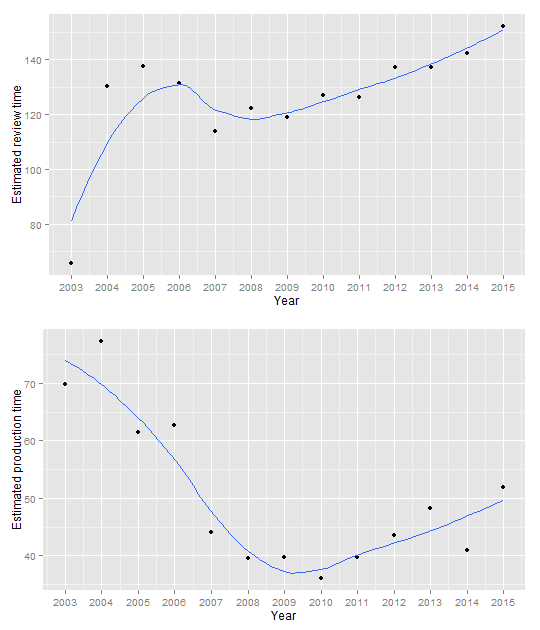
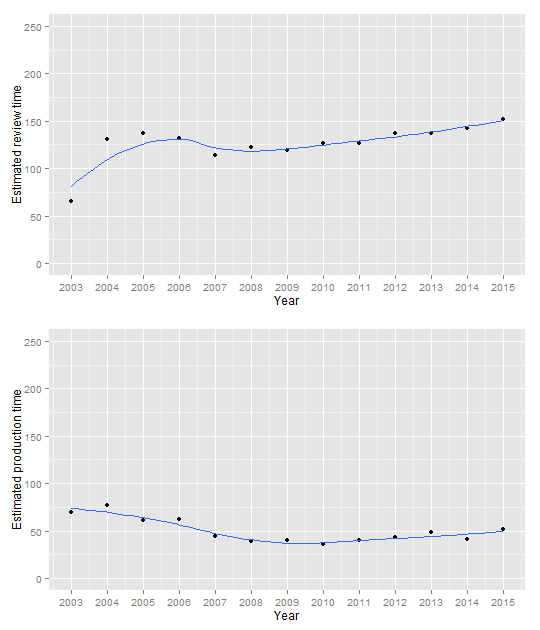
Worked on results

diff --git a/descriptive results.tex b/descriptive results.tex
@@ -1,23 +1,23 @@
 \section*{Descriptive results}
-The collected dataset includes information on 137,468 research papers. Across all journals, the median publication cycle is 152 days, with the majority of this being the review process (i.e., median 111 days) and not the production process (i.e., median 38 days). Table \ref{tab:tab1} specifies these numbers per journal and indicates PLoS ONE has the fastest review- and production process, whereas PLoS Medicine has the longest review process (median difference = 69). PLoS Clinical Trials had the longest production process, compared to PLoS ONE (median difference = 15). S1 Figure includes plots of median review- and production times per journal. 
+The collected dataset includes information on 140,674 research papers. Across all journals, the median publication cycle is 152 days, with the majority of this being the review process (i.e., median 111 days) and not the production process (i.e., median 38 days). Table \ref{tab:tab1} specifies these numbers per journal and indicates PLoS ONE has the fastest review, whereas PLoS Medicine has the longest review process (median difference = 69). PLoS Clinical Trials had the longest production process, compared to PLoS ONE (median difference = 16). S1 Figure includes plots of observed median review- and production times per journal. 
 
 \begin{table}
 \caption{Table 1. Descriptive statistics per journal, with publication-, review-, and production time in median.}
 \label{tab:tab1}
 \begin{tabular}{ c c c c c }
           & \# Articles & Publication time & Review time & Production time \\
-    ONE   & 119,435 & 147   & 106   & 37 \\
+    ONE   & 122,398 & 147   & 107   & 36 \\
     Clinical Trials & 44    & 180.5 & 125   & 52 \\
-    Genetics & 4,676  & 182   & 131   & 50 \\
-    Neglected Tropical Diseases & 2,940  & 183   & 133   & 45 \\
-    Pathogens & 3,926  & 183   & 138.5 & 43 \\
-    Biology & 2,005  & 190   & 141   & 46 \\
-    Computational Biology & 3,385  & 199   & 148   & 48 \\
-    Medicine & 1,057  & 231   & 175   & 47 \\
-    Overall & 137,468 & 152   & 111   & 38 \\
+    Genetics & 4,741  & 182   & 131   & 50 \\
+    Neglected Tropical Diseases & 2,999  & 183   & 133   & 45 \\
+    Pathogens & 3,992  & 183   & 139.5 & 43 \\
+    Biology & 2,015  & 190   & 141   & 46 \\
+    Computational Biology & 3,423  & 199   & 148   & 48 \\
+    Medicine & 1,062  & 230.5   & 176   & 47 \\
+    Overall & 140,674 & 152   & 111   & 38 \\
 \end{tabular}
 \end{table}
 
-These differences in the review- and production speed could be a consequence of increased efficiency or stricter publication criteria. PLoS ONE contains 119,435 papers and is considered a megajournal (i.e., not field specific or selective in topic). On the other hand, the other journals are more similar to traditional journals in its criteria for publication (e.g., originality of research). PLoS Medicine, for example, contains 'only' 1,057 papers, indicating a large disparity with PLoS ONE. 
+These differences in the review- and production speed could be a consequence of increased efficiency or stricter publication criteria. PLoS ONE contains 122,398 papers and is considered a megajournal (i.e., not field specific or selective in topic). On the other hand, the other journals are more similar to traditional journals in its criteria for publication (e.g., originality of research). PLoS Medicine, for example, contains 'only' 1,062 papers, indicating a large disparity with PLoS ONE. 
 
 Correlations indicate that the total publication cycle is almost perfectly correlated with review time ($\rho=.976$). This indicates that $95\%$ of the variance in publication cycle is explained by the review time and that the production process seems an additive random process that is not predicted by the time taken to get a paper accepted.

diff --git a/aggregate model results.tex b/aggregate model results.tex
@@ -1,30 +1,30 @@
 \section*{Aggregate model results}
-Poisson model estimates for all journals together indicate that both review- and production time are only predicted by year. Coefficients in Table \ref{tab:tab2} indicate negligible predictive effects of number of authors, number of pages, and presence of competing interests (i.e., $b \leq |.019|$). Dummy coefficients indicate that review time has increased, whereas production time has decreased compared to 2003. Besides the effect of year, the results indicate review time is a random process around a certain mean.
+Poisson model estimates for all journals together indicate that both review- and production time are only predicted by year. Coefficients in Table \ref{tab:tab2} indicate negligible predictive effects of number of authors, number of pages, and presence of competing interests (i.e., $b \leq |.017|$). Dummy coefficients indicate that review time has increased, whereas production time has fluctuated around 50 days. Besides the effect of year, the results indicate review time is a random process.
 
 \begin{table}
 \caption{Table 2. Poisson regression model estimates for review- and production time.}
 \label{tab:tab2}
 \begin{tabular}{ c c c }
-    & Estimate (review) & Estimate (production) \\
-    Intercept & 4.18738 & 4.24957 \\
-    Authors (centred) & 0.00189 & 0.00592 \\
+             & Estimate (review) & Estimate (production) \\
+    Intercept & 4.18370 & 4.24677 \\
+    Authors (centred) & 0.00176 & 0.00582 \\
     Authors$^2$ (centred) & -0.00001 & -0.00001 \\
-    Pages (centred) & -0.00093 & 0.00004 \\
-    Pages$^2$ (centred) & -0.00011 & -0.00011 \\
-    Conflict of interest & -0.01900 & 0.00491 \\
-    2004  & 0.68773 & 0.10165 \\
-    2005  & 0.73865 & -0.12943 \\
-    2006  & 0.69365 & -0.10929 \\
-    2007  & 0.54892 & -0.46095 \\
-    2008  & 0.62000 & -0.57019 \\
-    2009  & 0.59294 & -0.56630 \\
-    2010  & 0.65820 & -0.66379 \\
-    2011  & 0.65244 & -0.56771 \\
-    2012  & 0.73470 & -0.47268 \\
-    2013  & 0.73683 & -0.37086 \\
-    2014  & 0.77308 & -0.53778 \\
-    2015  & 0.84419 & -0.24989 \\
+    Pages (centred) & -0.00084 & 0.00012 \\
+    Pages$^2$ (centred) & -0.00010 & -0.00011 \\
+    Conflict of interest & -0.01713 & 0.00551 \\
+    2004  & 0.68758 & 0.10155 \\
+    2005  & 0.74031 & -0.12891 \\
+    2006  & 0.69579 & -0.10830 \\
+    2007  & 0.55104 & -0.45996 \\
+    2008  & 0.62225 & -0.56911 \\
+    2009  & 0.59525 & -0.56514 \\
+    2010  & 0.66045 & -0.66266 \\
+    2011  & 0.65463 & -0.56665 \\
+    2012  & 0.73687 & -0.47161 \\
+    2013  & 0.73887 & -0.36991 \\
+    2014  & 0.77532 & -0.53661 \\
+    2015  & 0.84229 & -0.29643 \\
 \end{tabular}
 \end{table}
 
-The estimated mean review- and production time are depicted in Figure 1. For review time, the estimates are increasing in a non-linear fashion, with a short decreasing trend 2006 and 2008. The estimated mean review time has climbed to approximately 150 days since 2003. Estimated mean production time fluctuate around 50 days. The journal specific model results are described next.
+The estimated mean review- and production time are depicted in Figure 1. For review time, the estimates are increasing in a non-linear fashion, with a short decreasing trend 2006 and 2008. The estimated mean review time has climbed to approximately 150 days since 2003. Estimated mean production time fluctuates around 50 days. The journal specific model results are described next.

diff --git a/journal model results cont.tex b/journal model results cont.tex
@@ -1,5 +1,3 @@
-There is substantial variability in estimated mean review times across journals, but all journals show an increasing time taken to complete the review process. In accordance with the descriptive statistics given earlier, PLoS Medicine is the journal with the longest estimated mean review time, whereas PLoS ONE is the fastest. As of 2015, the review process takes between 150-250 days on average and is less variable than in the preceding years.
+Substantial variability is observed in estimated mean review times across journals, but all journals show an increasing time taken to complete the review process. In accordance with the descriptive statistics given earlier, PLoS Medicine has the longest estimated mean review time, whereas PLoS ONE is the fastest. As of 2015, the review process takes between 150-250 days on average and is less variable across journals than in the preceding years.
 
-The estimated mean production times are highly consistent across journals, but deviate substantially from the aggregate results. Whereas the aggregate results show a curvilinear trend, with an initial decrease in production time and a subsequent inrease, the journal specific results show a stable mean estimate of 50 days. This indicates that aggregate 
-
-These models specified per journal give highly comparable results, except for one estimate in one journal. PLoS Biology only competing interests (.111)
+The estimated mean production times are highly consistent across journals and show less fluctuation than the aggregate results. The estimated mean review time is approximately 50 days across journals, across years.

diff --git a/journal model results.tex b/journal model results.tex
@@ -1,2 +1,2 @@
 \section*{Journal model results}
-When the results are specified per journal, model estimates are similar. Most journal specific models included no meaningful effect for number of authors, number of pages, or presence of competing interests on either the review- or production time. Only for PLoS Biology the presence of competing interests had a noteworthy effect on production time ($b=.11$), but this results . Figure 2 plots the mean estimated review- and production times for each journal.
+When the results are specified per journal, model estimates are similar to the aggregate results describe previously. Most journal specific models included no meaningful effect for number of authors, number of pages, or presence of competing interests on either the review- or production time. Only for PLoS Clinical Trials and PLoS Biology the presence of competing interests had a noteworthy effect on review- and production time respectively ($b=.112$ and $b=.106$). This indicates that competing interests increase review- and production time by a factor of approximately 1.1 for Clinical Trials and PLoS Biology, respectively. All individual coefficients per journal for both review- and production time are available in S2 File. Figure 2 plots the mean estimated review- and production times for each journal.

diff --git a/archive/annotated_data_analysis.md b/archive/annotated_data_analysis.md
@@ -605,6 +605,7 @@ p1 <- ggplot(plotdf, aes(x = years, y = revdays)) +
   stat_smooth(method = "loess", se = FALSE) +
   labs(list(x = "Year", y = "Estimated review time")) + 
   theme(legend.position = "none") + 
+  ylim(c(0, 250)) + 
   scale_x_continuous(breaks = 2003:2015)
 
 p2 <- ggplot(plotdf, aes(x = years, y = proddays)) +
@@ -612,6 +613,7 @@ p2 <- ggplot(plotdf, aes(x = years, y = proddays)) +
   stat_smooth(method = "loess", se = FALSE) +
   labs(list(x = "Year", y = "Estimated production time")) + 
   theme(legend.position = "none") + 
+  ylim(c(0, 250)) + 
   scale_x_continuous(breaks = 2003:2015)
 
 multiplot(p1, p2 + guides(colour = guide_legend(nrow = 3)))
